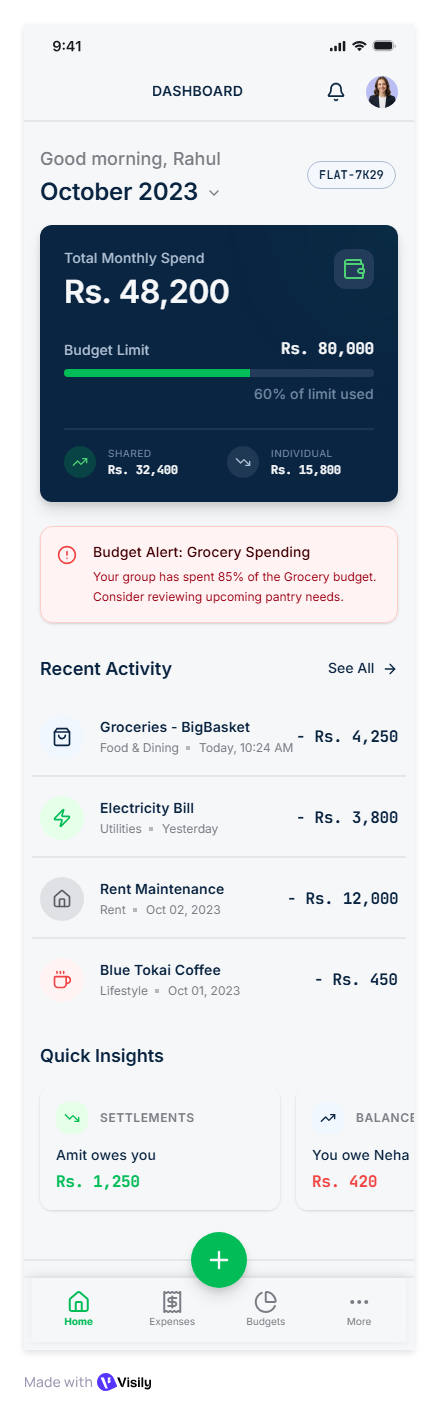
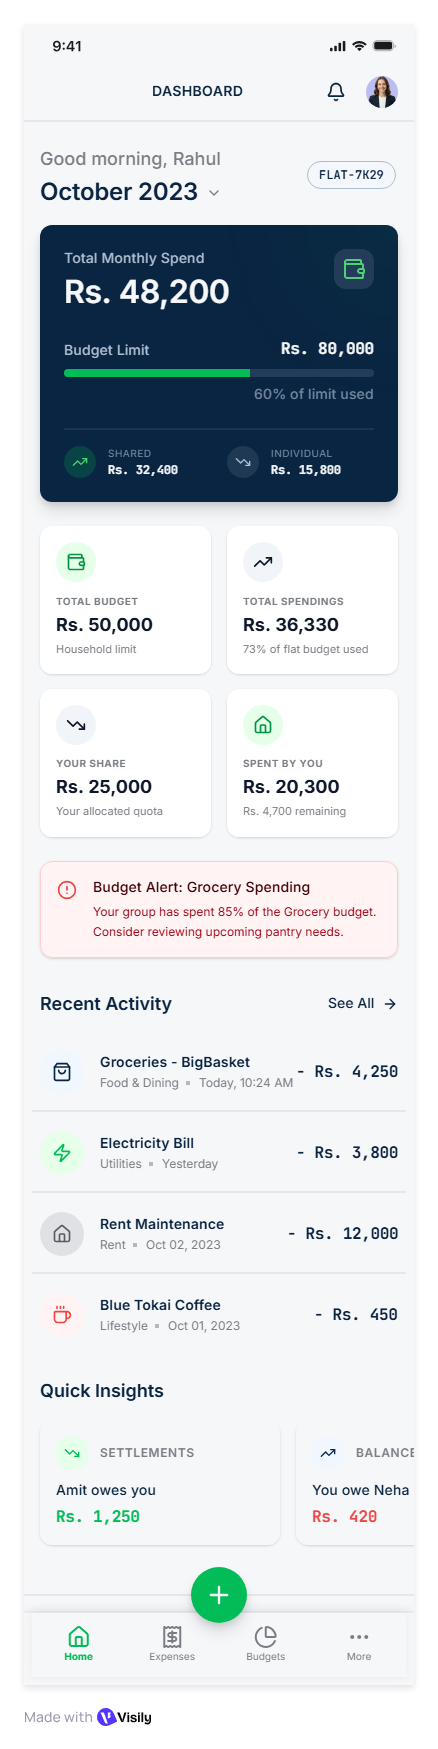
feat: implement home screen dashboard UI with spending overview and budget tracking

diff --git a/lib/features/shell/presentation/screens/home_screen.dart b/lib/features/shell/presentation/screens/home_screen.dart
@@ -209,8 +209,18 @@ class HomeScreen extends ConsumerWidget {
               ),
               const SizedBox(height: 14),
 
+              // ── 2×2 Stats Grid ────────────────────────────────────────────
+              _StatsGrid(
+                totalBudgetPaisa: household.effectiveTotalBudgetPaisa,
+                totalSpendingPaisa: stats.totalSpendingPaisa,
+                userSharePaisa: stats.userSharePaisa,
+                userPaidPaisa: stats.userPaidPaisa,
+                isDark: isDark,
+              ),
+              const SizedBox(height: 12),
+
               // ── Budget Alerts ─────────────────────────────────────────────
-              if (exceededAlerts.isNotEmpty) ...[ 
+              if (exceededAlerts.isNotEmpty) ...[
                 for (final alert in exceededAlerts)
                   _BudgetAlertBanner(
                     label: alert.label,
@@ -772,6 +782,174 @@ class _SpendSplitTile extends StatelessWidget {
                 ),
               ),
             ],
+          ),
+        ],
+      ),
+    );
+  }
+}
+
+// ─────────────────────────────────────────────────────────────────────────────
+// 2×2 Stats Grid
+// ─────────────────────────────────────────────────────────────────────────────
+
+class _StatsGrid extends StatelessWidget {
+  const _StatsGrid({
+    required this.totalBudgetPaisa,
+    required this.totalSpendingPaisa,
+    required this.userSharePaisa,
+    required this.userPaidPaisa,
+    required this.isDark,
+  });
+
+  final int totalBudgetPaisa;
+  final int totalSpendingPaisa;
+  final int userSharePaisa;
+  final int userPaidPaisa;
+  final bool isDark;
+
+  @override
+  Widget build(BuildContext context) {
+    final budgetUsedPct = totalBudgetPaisa > 0
+        ? ((totalSpendingPaisa / totalBudgetPaisa) * 100).round()
+        : 0;
+    final remainingPaisa = (userSharePaisa - userPaidPaisa).abs();
+
+    return Column(
+      children: [
+        Row(
+          children: [
+            Expanded(
+              child: _StatCard(
+                icon: Icons.account_balance_wallet_outlined,
+                iconColor: CoSpendColors.jadeGreen,
+                label: 'TOTAL BUDGET',
+                value: Money.format(totalBudgetPaisa),
+                subtitle: 'Household limit',
+                isDark: isDark,
+              ),
+            ),
+            const SizedBox(width: 12),
+            Expanded(
+              child: _StatCard(
+                icon: Icons.trending_up_rounded,
+                iconColor: const Color(0xFF60A5FA),
+                label: 'TOTAL SPENDINGS',
+                value: Money.format(totalSpendingPaisa),
+                subtitle: totalBudgetPaisa > 0
+                    ? '$budgetUsedPct% of flat budget used'
+                    : 'This month',
+                isDark: isDark,
+              ),
+            ),
+          ],
+        ),
+        const SizedBox(height: 12),
+        Row(
+          children: [
+            Expanded(
+              child: _StatCard(
+                icon: Icons.person_outline_rounded,
+                iconColor: const Color(0xFFA78BFA),
+                label: 'YOUR SHARE',
+                value: Money.format(userSharePaisa),
+                subtitle: 'Your allocated quota',
+                isDark: isDark,
+              ),
+            ),
+            const SizedBox(width: 12),
+            Expanded(
+              child: _StatCard(
+                icon: Icons.home_outlined,
+                iconColor: const Color(0xFFFB923C),
+                label: 'SPENT BY YOU',
+                value: Money.format(userPaidPaisa),
+                subtitle: userPaidPaisa <= userSharePaisa
+                    ? '${Money.format(remainingPaisa)} remaining'
+                    : '${Money.format(remainingPaisa)} over',
+                isDark: isDark,
+              ),
+            ),
+          ],
+        ),
+      ],
+    );
+  }
+}
+
+class _StatCard extends StatelessWidget {
+  const _StatCard({
+    required this.icon,
+    required this.iconColor,
+    required this.label,
+    required this.value,
+    required this.subtitle,
+    required this.isDark,
+  });
+
+  final IconData icon;
+  final Color iconColor;
+  final String label;
+  final String value;
+  final String subtitle;
+  final bool isDark;
+
+  @override
+  Widget build(BuildContext context) {
+    return Container(
+      padding: const EdgeInsets.all(16),
+      decoration: BoxDecoration(
+        color: isDark ? CoSpendColors.darkCard : CoSpendColors.white,
+        borderRadius: CoSpendRadii.cardRadius,
+        border: Border.all(
+          color: isDark ? CoSpendColors.darkBorder : CoSpendColors.borderLight,
+          width: 0.8,
+        ),
+        boxShadow: isDark ? null : CoSpendShadows.card,
+      ),
+      child: Column(
+        crossAxisAlignment: CrossAxisAlignment.start,
+        children: [
+          Container(
+            width: 34,
+            height: 34,
+            decoration: BoxDecoration(
+              color: iconColor.withValues(alpha: 0.12),
+              borderRadius: BorderRadius.circular(9),
+            ),
+            alignment: Alignment.center,
+            child: Icon(icon, size: 17, color: iconColor),
+          ),
+          const SizedBox(height: 10),
+          Text(
+            label,
+            style: TextStyle(
+              fontSize: 10,
+              fontWeight: FontWeight.w700,
+              letterSpacing: 0.6,
+              color: isDark ? CoSpendColors.darkTextMuted : CoSpendColors.textMuted,
+            ),
+          ),
+          const SizedBox(height: 4),
+          Text(
+            value,
+            style: TextStyle(
+              fontSize: 16,
+              fontWeight: FontWeight.w800,
+              letterSpacing: -0.3,
+              color: isDark ? Colors.white : CoSpendColors.prussianBlue,
+            ),
+          ),
+          const SizedBox(height: 3),
+          Text(
+            subtitle,
+            style: TextStyle(
+              fontSize: 11,
+              fontWeight: FontWeight.w500,
+              color: isDark ? CoSpendColors.darkTextMuted : CoSpendColors.textMuted,
+            ),
+            maxLines: 1,
+            overflow: TextOverflow.ellipsis,
           ),
         ],
       ),
